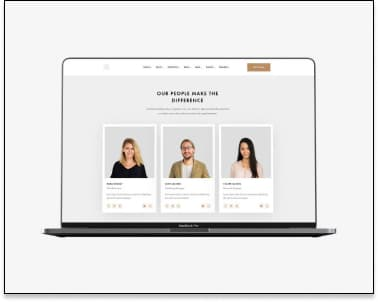
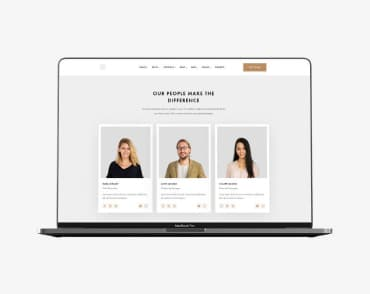
start

diff --git a/css/styles.css b/css/styles.css
@@ -8,11 +8,11 @@
 }
 
 .body {
-  width: 1600px;
   font-family: "Roboto", "Raleway";
   font-style: normal;
   color: var(--color);
   background-color: var(--color-w);
+  max-width: 1600px;
 }
 
 address {
@@ -21,11 +21,14 @@ address {
 .container {
   width: 1200px;
   padding: 0px 15px;
-  margin-right: auto;
-  margin-left: auto;
+  margin: 0 auto;
 }
 .port {
-  box-shadow: 0px 4px 4px rgba(0, 0, 0, 0.25);
+  border-bottom: 1px solid rgba(0 0 0/25%);
+}
+.header .container {
+  display: flex;
+  align-items: center;
 }
 .navlist {
   display: flex;
@@ -86,22 +89,27 @@ address {
   color: var(--color-text);
 }
 /*main*/
+
 .section {
   padding: 94px 0;
 }
+
 /*section banner*/
 .banner {
   background-color: var(--color-banner);
   color: var(--color-w);
+  padding: 200px 0px;
 }
+
 .banner-text {
   text-transform: uppercase;
   font-weight: 900;
   font-size: 44px;
   line-height: 1.36;
   letter-spacing: 0.06em;
-  padding: 0 252px;
   text-align: center;
+  max-width: 696px;
+  margin: 0 auto;
 }
 .button {
   cursor: pointer;
@@ -112,16 +120,18 @@ address {
   font-size: 16px;
   line-height: 1.88;
   letter-spacing: 0.06em;
-  margin: 30px 500px 0;
+  margin: 0 auto;
+  margin-top: 30px;
   border: 1px solid #000000;
   box-shadow: 0px 4px 4px rgba(0, 0, 0, 0.15);
-  border-radius: 4px;
+  display: block;
+  text-align: center;
 }
 /* buttons portfolio*/
 .portfolio-buttons {
   display: flex;
   justify-content: center;
-  padding-bottom: 50px;
+  margin-bottom: 50px;
 }
 .filter {
   background-color: var(--portfolo-button);
@@ -130,6 +140,7 @@ address {
 .filter:not(:first-child) {
   margin-left: 8px;
 }
+
 .buttons {
   cursor: pointer;
   background-color: var(--portfolo-button);
@@ -139,11 +150,14 @@ address {
   font-size: 16px;
   line-height: 1.6;
   letter-spacing: 0.03em;
-  border: 0px;
+  text-align: center;
+  border: none;
+  border-radius: 4px;
+  padding: 6px 22px;
 }
 .buttons:hover,
 .buttons:focus {
-  background-color: var(--color-link);
+  background: var(--color-link);
   color: var(--color-w);
 }
 /*portfolio*/
@@ -178,8 +192,9 @@ address {
   line-height: 1.17;
   letter-spacing: 0.03em;
   text-align: center;
-  padding-bottom: 50px;
+  margin-bottom: 50px;
 }
+
 .title-img {
   display: flex;
 }
@@ -207,25 +222,23 @@ address {
     0px 2px 1px rgba(0, 0, 0, 0.2);
   border-radius: 0px 0px 4px 4px;
 }
-
-.people-name {
+.desc {
   padding-top: 30px;
-  padding-bottom: 10px;
+  padding-bottom: 30px;
   text-align: center;
+  line-height: 1.19;
+}
+.people-name {
+  font-weight: 500;
+  margin-bottom: 10px;
+  font-size: 16px;
 }
 .people-text {
   color: var(--color-text);
   font-size: 16px;
-  line-height: 1.19;
   margin-bottom: 30px;
-  text-align: center;
 }
-.team-people p {
-  font-size: 16px;
-  line-height: 1.19;
-  margin-bottom: 30px;
-  text-align: center;
-}
+
 /*footer*/
 .footer {
   background-color: var(--color-banner);
@@ -234,22 +247,21 @@ address {
   line-height: 1.71;
   letter-spacing: 0.03em;
   padding-top: 60px;
-}
-.adress {
-  padding-top: 20px;
   padding-bottom: 60px;
 }
+
 .adress p {
-  padding-bottom: 9px;
+  margin-top: 20px;
+  margin-bottom: 9px;
 }
-.adress-contacts li {
-  padding-bottom: 9px;
+.adress-contacts li:not(:last-child) {
+  margin-bottom: 9px;
 }
 .lin {
   color: rgba(255, 255, 255, 0.6);
 }
 
-/*portfolio main*/ 
+/*portfolio main*/
 .examples {
   display: flex;
   flex-wrap: wrap;
@@ -260,11 +272,14 @@ address {
 .examples-item {
   /*це наш item*/
   margin-left: 30px;
-  margin-top: 30px;
-  flex-basis: cacl((1200- 90px)/ 3);
+  margin-top: 30px; /*
+  flex-basis: cacl((1200- 90px)/3); */
+}
+.examples-item img {
+  display: block;
 }
 .discription {
-  margin: 20px 24px;
+  padding: 20px 24px;
 }
 .examples > li {
   width: 370px;

diff --git a/index.html b/index.html
@@ -22,11 +22,11 @@
                 <li class="item"><a class="link" href="./portfolio.html">Портфолио</a></li>
                 <li class="item"><a class="link" href="">Контакты</a></li>
             </ul>
+        </nav>
         <ul class="contacts-link">
             <li class="item"><a class="link links" href="mailto:info@devstudio.com">info@devstudio.com</a></li>
             <li class="item"><a class="link links" href="tel:+380961111111"> +38 096 111 11 11</a></li>
         </ul>
-        </nav>
     </div>
     </header>
     <main>
@@ -95,23 +95,32 @@
             <ul class="section-team">
                 <li class="team-people">
                    <img src="images/img.jpg" alt="Игорь Демьяненко" width="270" />
+                   <div class="desc">
                    <h3 class="people-name">Игорь Демьяненко</h3>
                    <p class="people-text" lang="en">Product Designer</p>
+                   </div>
                 </li>
                 <li class="team-people">
                     <img src="images/img1.jpg" alt="Ольга Репина" width="270" />
+                    <div class="desc">
                     <h3 class="people-name">Ольга Репина</h3>
                     <p class="people-text" lang="en">Frontend Developer</p>
+                    </div>
                 </li>
                 <li class="team-people">
+                    
                     <img src="images/img2.jpg" alt="Николай Тарасов" width="270" />
+                    <div class="desc">
                     <h3 class="people-name">Николай Тарасов</h3>
                     <p class="people-text" lang="en">Marketing</p>
+                    </div>
                 </li>
                 <li class="team-people">
                     <img src="images/img3.jpg" alt="Михаил Ермаков" width="270" />
+                    <div class="desc">
                     <h3 class="people-name">Михаил Ермаков</h3>
                     <p class="people-text" lang="en">UI Designer</p>
+                    </div>
                 </li>
             </ul>
             </div>
@@ -119,7 +128,7 @@
     </main>
     <footer class="footer">
         <div class="container ">
-        <a class="logo fl" href="./index.html"><span class="logo-web">Web</span>Studio</a>
+        <a class="logo" href="./index.html"><span class="logo-web">Web</span>Studio</a>
         <address class="adress">
             <p>г. Киев, пр-т Леси Украинки, 26</p>
             <ul class="adress-contacts">

diff --git a/portfolio.html b/portfolio.html
@@ -20,11 +20,11 @@
             <li class="item"><a class="link" href="./portfolio.html">Портфолио</a></li>
             <li class="item"><a class="link" href="">Контакты</a></li>
         </ul>
-    <ul class="contacts-link">
+    </nav>
+        <ul class="contacts-link">
         <li class="item"><a class="link links" href="mailto:info@devstudio.com">info@devstudio.com</a></li>
         <li class="item"><a class="link links" href="tel:+380961111111"> +38 096 111 11 11</a></li>
-    </ul>
-    </nav>
+        </ul>
     </div>
    </header>
    <main>
@@ -32,7 +32,6 @@
        <section class="section">
     <!-- <h2>Фильтры</h2>-->
         <div class="container">
-           <div>
                <ul class="portfolio-buttons">
                    <li class="filter"><button class="buttons" type="button">Все</button></li>
                    <li class="filter"><button class="buttons" type="button">Веб-сайты</button></li>
@@ -40,7 +39,6 @@
                    <li class="filter"><button class="buttons" type="button">Дизайн</button></li>
                    <li class="filter"><button class="buttons" type="button">Маркетинг</button></li>
                </ul>
-            </div>
            <ul class="examples">
                 <li class="examples-item">
                     <img src="./images/port1.jpg" alt="Технокряк" width="370">
